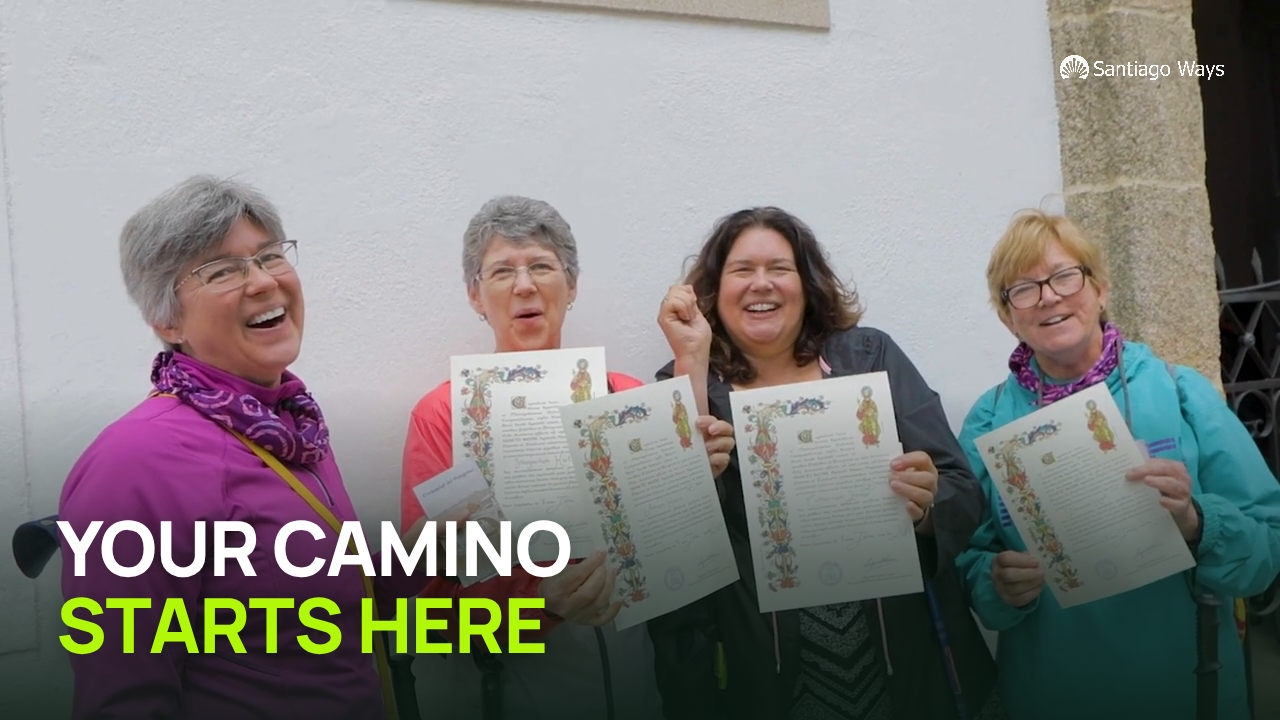
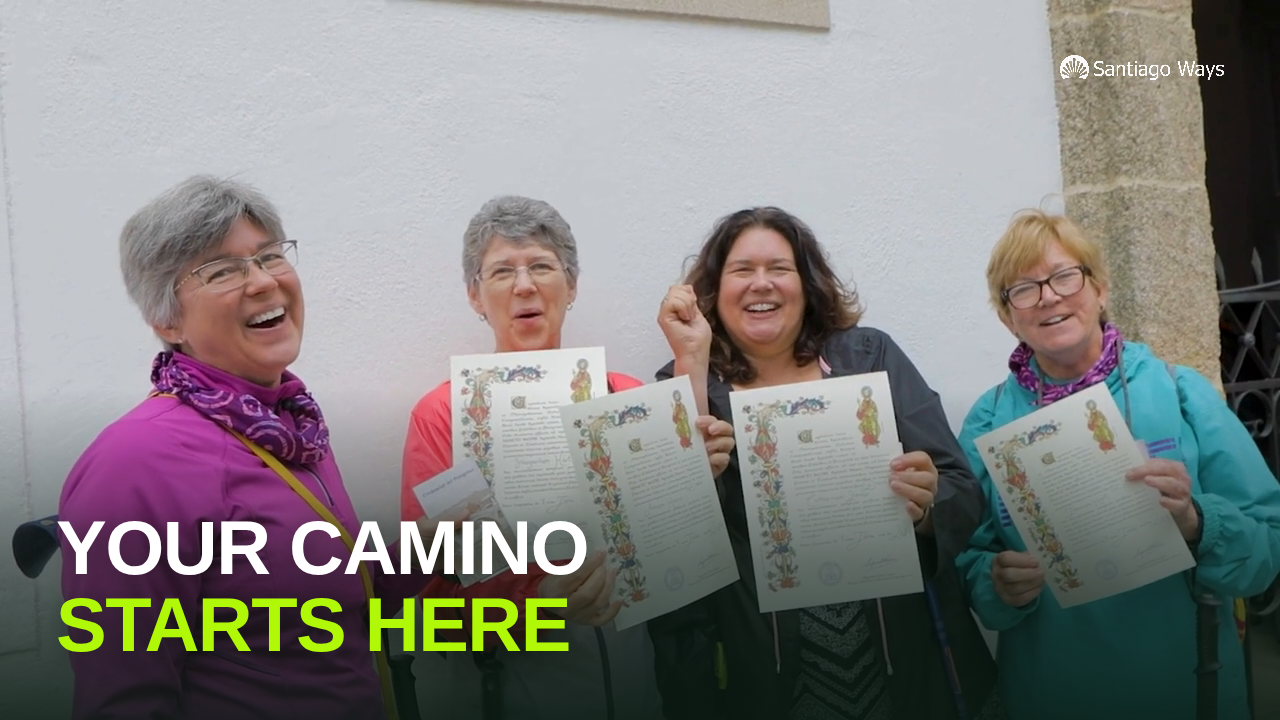
Montserrat extrabold en los titulares y quitar el antetítulo del cierre
Los titulares pasan de Manrope a Montserrat en peso 800, que además es la
primera de la cascada oficial del manual, así que la pieza queda más
alineada con la marca. La miniatura se unifica con la misma tipografía.

Comprobado que el peso carga de verdad y no cae a uno menor: el mismo
fotograma renderizado a 400 da 3.281 píxeles de tinta y a 900 da 4.799.

Fuera el "Buen Camino" en lima del cierre. El bloque queda en hueco del
logo, titular y santiagoways.com. El hueco pasa a y=228, medido sobre el
render.

Claude-Session: https://claude.ai/code/session_01H11WoizyS2byPwzax556oZ

Changed region(s): [[0.0625, 0.7028, 0.4688, 0.9167], [0.0625, 0.825, 0.0938, 0.8556]]

diff --git a/video/src/SWCaminoStoriesEN.tsx b/video/src/SWCaminoStoriesEN.tsx
@@ -9,8 +9,7 @@ import {
   useCurrentFrame,
 } from "remotion";
 import "./fuentes";
-import "@fontsource/manrope/latin-600.css";
-import "@fontsource/manrope/latin-800.css";
+
 import { brand } from "./brand/theme";
 
 /**
@@ -52,7 +51,9 @@ const RECORTE = 11.3;
 /** Duracion final, en segundos. */
 const DURACION = 130.17;
 
-const FUENTE = "Manrope, Montserrat, Poppins, sans-serif";
+/** Montserrat extrabold para los titulares: es la primera de la cascada
+ *  oficial y la que pide el equipo para esta pieza. */
+const FUENTE = "Montserrat, Manrope, Poppins, sans-serif";
 const MARGEN = 64;
 
 /* ------------------------------------------------------------------ *
@@ -214,8 +215,7 @@ const Cartela: React.FC<{
  * el bloque de marca delante, pero con el mismo lenguaje de las cartelas
  * nuevas: blanco con el verde recuadrando lo que remata.
  *
- * Arriba, "Buen Camino", que es literalmente lo ultimo que dice una viajera
- * en la pieza. Debajo queda el hueco del logo, que coloca el equipo.
+ * Arriba queda el hueco del logo, que coloca el equipo.
  * La banda derecha se deja libre para la pantalla final de YouTube, y no se
  * dibuja ningun boton: uno pintado dentro del video invita a pulsar donde no
  * hay nada.
@@ -243,39 +243,25 @@ const Cierre: React.FC<{ total: number }> = ({ total }) => {
           paddingRight: 420,
         }}
       >
-        <div
-          style={{
-            fontFamily: FUENTE,
-            fontSize: 20,
-            fontWeight: 800,
-            letterSpacing: "0.22em",
-            textTransform: "uppercase",
-            color: brand.lime,
-            clipPath: barrido(frame, 0, total),
-          }}
-        >
-          Buen Camino
-        </div>
-
         {/*
           Hueco reservado para el logo: 230 x 58 px, la proporcion 4:1 del
           archivo oficial. Vacio a proposito, para que al colocarlo no haya
           que recolocar nada.
         */}
-        <div style={{ width: 230, height: 58, marginTop: 22, marginBottom: 22 }} />
+        <div style={{ width: 230, height: 58, marginBottom: 30 }} />
 
         <Linea
           trozos={[{ texto: "Your Camino" }]}
           tam={54}
           frame={frame}
-          desde={RELEVO}
+          desde={0}
           total={total}
         />
         <Linea
           trozos={[{ texto: "starts here", destacado: true }]}
           tam={54}
           frame={frame}
-          desde={RELEVO * 2}
+          desde={RELEVO}
           total={total}
         />
 
@@ -287,7 +273,7 @@ const Cierre: React.FC<{ total: number }> = ({ total }) => {
             fontWeight: 700,
             letterSpacing: "0.06em",
             color: brand.white,
-            clipPath: barrido(frame, RELEVO * 3, total),
+            clipPath: barrido(frame, RELEVO * 2, total),
           }}
         >
           santiagoways.com

diff --git a/video/src/SWMiniaturaEN.tsx b/video/src/SWMiniaturaEN.tsx
@@ -1,7 +1,6 @@
 import { AbsoluteFill, Composition, OffthreadVideo, staticFile } from "remotion";
 import "./fuentes";
-import "@fontsource/manrope/latin-600.css";
-import "@fontsource/manrope/latin-800.css";
+
 import { brand } from "./brand/theme";
 import { Logo } from "./componentes/Logo";
 
@@ -15,7 +14,7 @@ import { Logo } from "./componentes/Logo";
  * El texto va abajo porque las caras ocupan la banda central: taparlas seria
  * perder justo lo que hace clicar.
  */
-const FUENTE = "Manrope, Montserrat, Poppins, sans-serif";
+const FUENTE = "Montserrat, Manrope, Poppins, sans-serif";
 
 export const SWMiniaturaEN: React.FC<{ sinLogo?: boolean }> = ({ sinLogo }) => (
   <AbsoluteFill style={{ backgroundColor: brand.forest }}>

diff --git a/docs/youtube/SW_Camino_Traveler_Stories_EN_tabla-de-edicion.md b/docs/youtube/SW_Camino_Traveler_Stories_EN_tabla-de-edicion.md
@@ -31,7 +31,7 @@ Desplazamiento respecto al origen, desde el primer testimonio: **menos 00:00:11:
 
 ## Cartelas
 
-Texto blanco en mayusculas, sin placa de fondo. El verde no hace de fondo de la
+Montserrat extrabold, peso 800, en blanco y mayusculas, sin placa de fondo. El verde no hace de fondo de la
 linea entera: solo recuadra las palabras que sostienen el mensaje, que es lo que
 deja leer la frase de un vistazo sin que el rotulo se coma el plano. Lo que va
 entre corchetes en esta tabla es lo que lleva recuadro verde.
@@ -48,7 +48,7 @@ franja de arriba es donde caen las caras.
 | 4 | 00:00:47:25 | 00:00:52:09 | ALWAYS A | [PRIVATE ROOM & BATHROOM] | — | Sobre la habitacion, en pantalla desde 00:00:50:00 |
 | 5 | 00:00:56:15 | 00:01:00:24 | HOTELS | [HAND-PICKED & TESTED] | By our own team | NUEVA. Sobre el patio y la terraza |
 | 6 | 00:01:44:10 | 00:01:47:20 | 24/7 SUPPORT | [ALL ALONG THE WAY] | — | Reubicada: donde se pedia pisaba un testimonio |
-| 7 | 00:02:03:00 | 00:02:10:05 | YOUR CAMINO | [STARTS HERE] | santiagoways.com | Cierre. Encima: BUEN CAMINO en lima y el hueco del logo |
+| 7 | 00:02:03:00 | 00:02:10:05 | YOUR CAMINO | [STARTS HERE] | santiagoways.com | Cierre. Encima, el hueco del logo |
 
 ## Cierre
 
@@ -58,7 +58,6 @@ degradado diagonal, y el bloque de marca delante, a la izquierda.
 | | |
 | --- | --- |
 | Entra en | 00:02:03:00, hasta el final |
-| Antetitulo | BUEN CAMINO, en lima. Es lo ultimo que dice una viajera en la pieza |
-| Hueco del logo | x = 64, y = 234, ancho 230, alto 58 px. Hay 127 px libres |
+| Hueco del logo | x = 64, y = 228, ancho 230, alto 58 px |
 | Web | santiagoways.com, debajo del titular |
 | Banda derecha | libre para la pantalla final de YouTube |

diff --git a/docs/youtube/SW_Camino_Traveler_Stories_EN_documento.md b/docs/youtube/SW_Camino_Traveler_Stories_EN_documento.md
@@ -76,8 +76,8 @@ coloqueis vosotros sin recolocar el texto:
 
 | | |
 | --- | --- |
-| Caja del logo | x = 64, y = 234, ancho 230, alto 58 px |
-| Hueco libre total | 127 px de alto, entre BUEN CAMINO y el titular |
+| Caja del logo | x = 64, y = 228, ancho 230, alto 58 px |
+| Hueco libre total | 88 px de alto, encima del titular |
 | Entra en | 00:02:03:00, y dura hasta el final |
 
 La caja mantiene la proporcion 4:1 del archivo oficial `santiago-ways-blanco.png`.
@@ -103,8 +103,9 @@ Ningun plano se repite: cada sustitucion trae consigo su propio relevo.
 
 **Siete cartelas** en blanco sobre el plano, sin placa de fondo, con el verde de
 marca recuadrando solo las palabras clave. Entran con el barrido lateral del kit.
-El cierre recupera el overlay de la primera version y lleva **BUEN CAMINO** de
-antetitulo, el hueco del logo, el titular y **santiagoways.com**.
+Tipografia **Montserrat extrabold**, peso 800, que es la primera de la cascada
+oficial del manual. El cierre recupera el overlay de la primera version: el hueco
+del logo, el titular y **santiagoways.com**.
 
 ---
 
